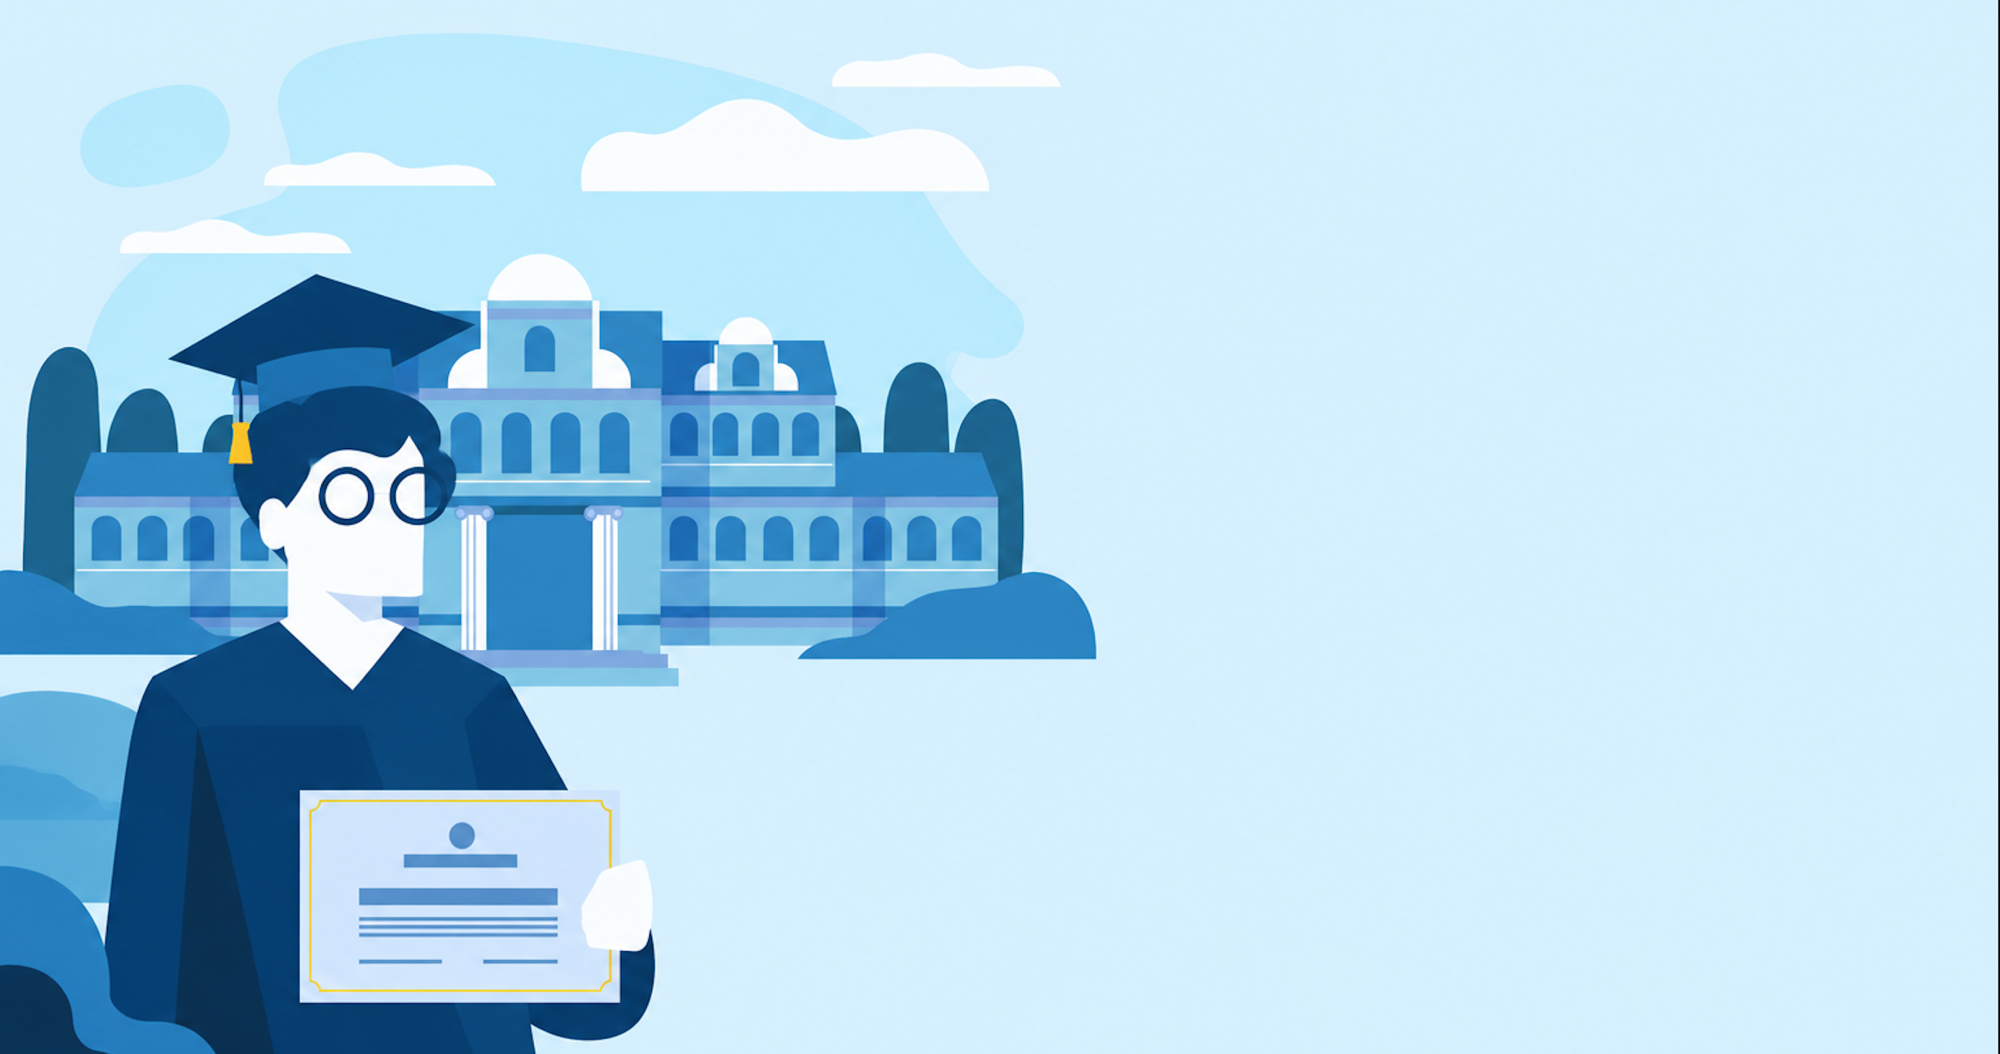
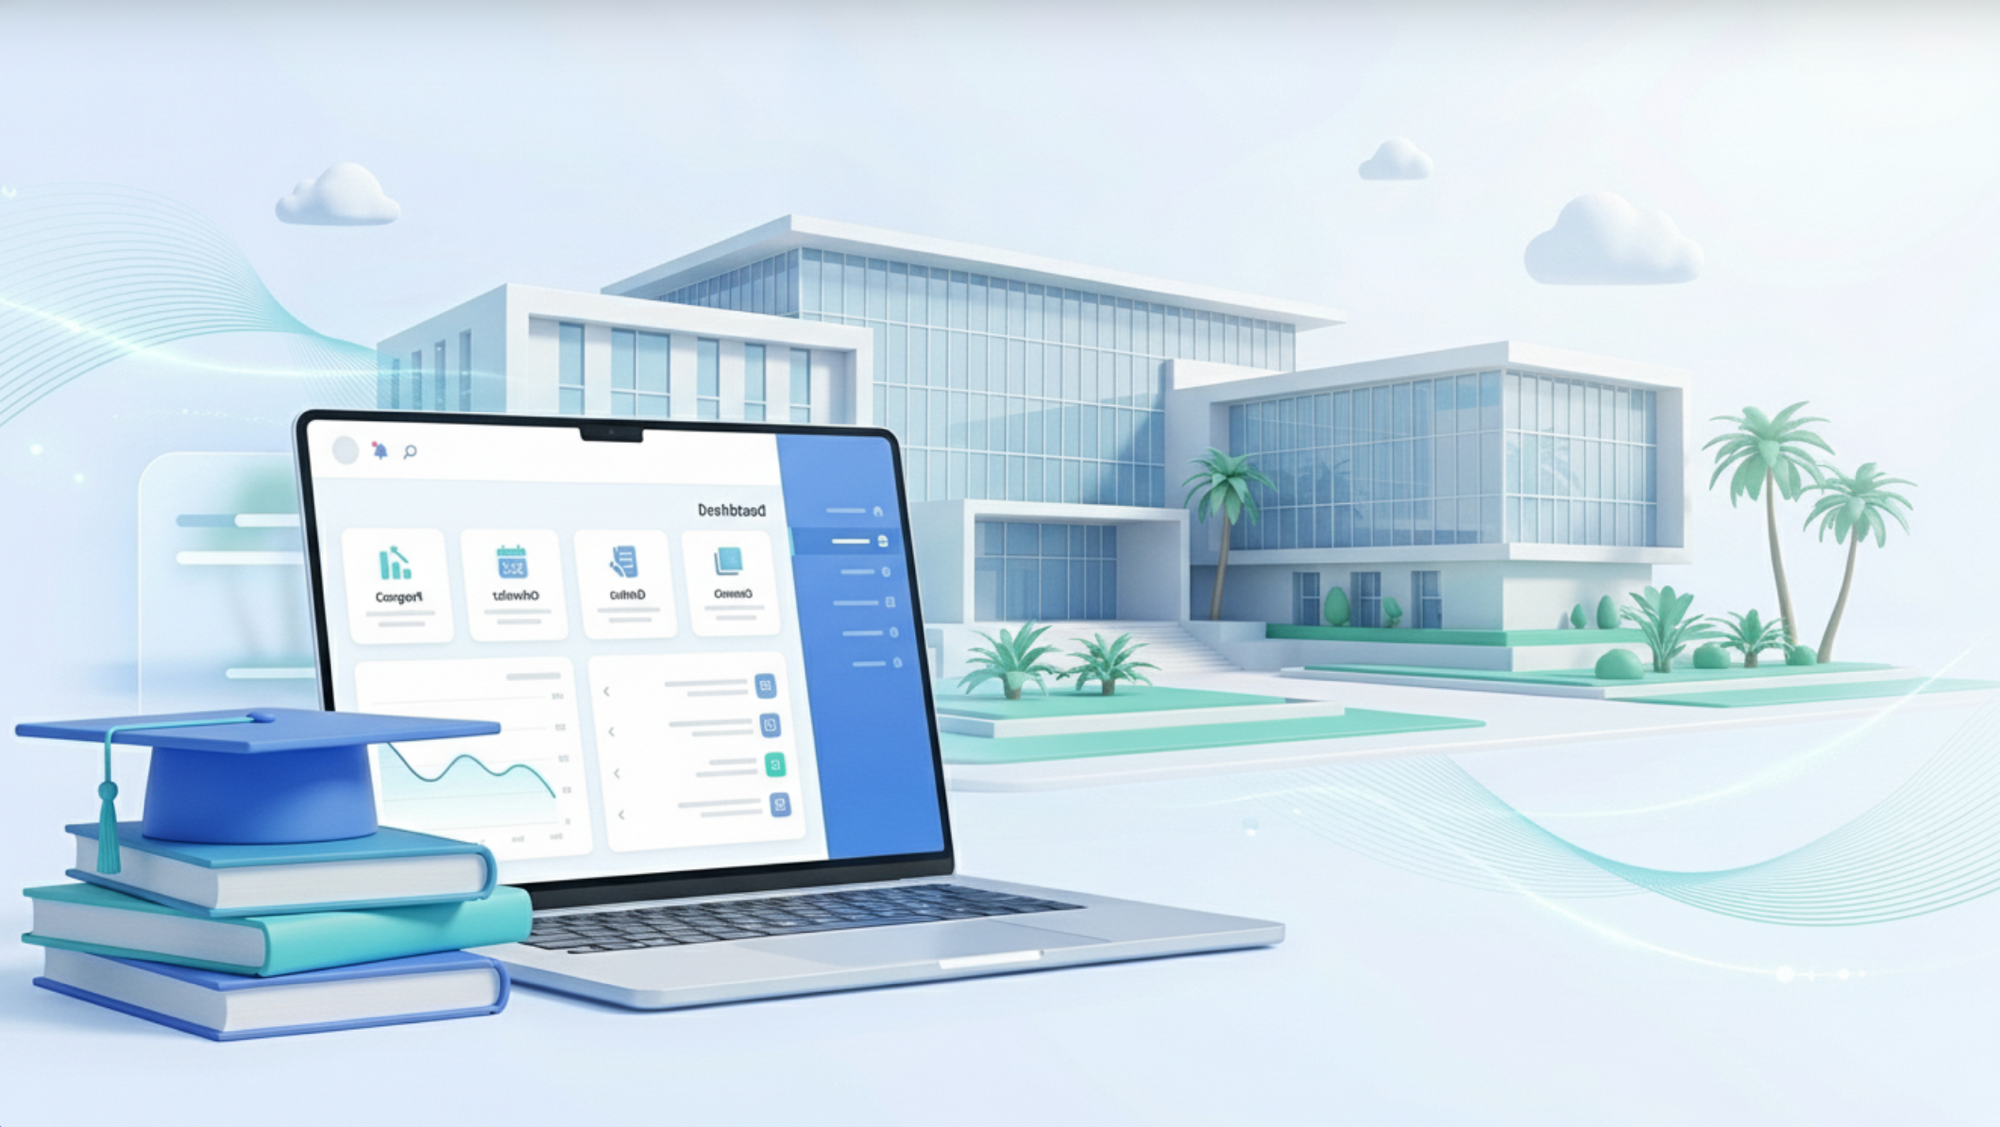
updated registeration page

diff --git a/resources/views/components/layout/app.blade.php b/resources/views/components/layout/app.blade.php
@@ -176,10 +176,12 @@
 
 <section id="home" data-spy class="relative overflow-hidden bg-[#d4effd]">
 
-    {{-- ===== Desktop (lg+): full-bleed illustration with the copy over the open right side ===== --}}
+    {{-- ===== Desktop (lg+): full-bleed illustration with the copy over the right side ===== --}}
     <div class="relative hidden lg:block">
-        <img src="{{ asset('images/hero-apply.png') }}" alt="" aria-hidden="true"
-             class="absolute inset-0 h-full w-full object-cover object-[left_bottom]">
+        <img src="{{ asset('images/hero-apply.png') }}?v={{ @filemtime(public_path('images/hero-apply.png')) }}" alt="" aria-hidden="true"
+             class="absolute inset-0 h-full w-full object-cover object-center">
+        {{-- subtle darkening for depth --}}
+        <div class="pointer-events-none absolute inset-0 bg-blue-950/20"></div>
         {{-- directional wash — illustration crisp on the left, text area clear on the right --}}
         <div class="pointer-events-none absolute inset-0 bg-gradient-to-l from-[#d4effd] via-[#d4effd]/55 to-transparent"></div>
 
@@ -204,14 +206,16 @@
         </div>
     </div>
 
-    {{-- ===== Mobile (<lg): faded illustration backdrop with the copy overlaid (text-shadow for legibility) ===== --}}
+    {{-- ===== Mobile (<lg): copy over the illustration ===== --}}
     <div class="relative overflow-hidden lg:hidden">
-        <img src="{{ asset('images/hero-apply.png') }}" alt="رسم خريج يحمل شهادته أمام مبنى الكلية"
-             class="absolute inset-0 h-full w-full object-cover object-center opacity-20">
-        {{-- soft top/bottom fade so the copy floats cleanly over the art --}}
-        <div class="pointer-events-none absolute inset-0 bg-gradient-to-b from-[#d4effd]/70 via-transparent to-[#d4effd]/80"></div>
+        <img src="{{ asset('images/hero-apply.png') }}?v={{ @filemtime(public_path('images/hero-apply.png')) }}" alt="رسم منصة الخدمات الأكاديمية للكلية"
+             class="absolute inset-0 h-full w-full object-cover object-center">
+        {{-- subtle darkening for depth --}}
+        <div class="pointer-events-none absolute inset-0 bg-blue-950/20"></div>
+        {{-- legibility wash — lighter at the top where the copy sits --}}
+        <div class="pointer-events-none absolute inset-0 bg-gradient-to-b from-[#d4effd]/90 via-[#d4effd]/30 to-[#d4effd]/55"></div>
 
-        <div class="relative px-6 pb-16 pt-14 text-center">
+        <div class="relative px-6 pb-44 pt-32 text-center">
             <h2 class="text-3xl font-extrabold leading-tight text-blue-900 [text-shadow:0_2px_12px_rgba(255,255,255,0.85),0_1px_2px_rgba(30,58,138,0.15)] sm:text-4xl">
                 كلية التقنية الإلكترونية طرابلس
             </h2>
@@ -229,6 +233,44 @@
 <main id="registration-form" class="max-w-7xl mx-auto px-6 py-16">
     {{ $slot }}
 </main>
+
+{{-- ============================ Footer ============================ --}}
+<footer class="bg-blue-950 text-center text-slate-300">
+    <div class="mx-auto max-w-7xl px-6 py-12">
+        <p class="text-sm text-slate-400">© جميع الحقوق محفوظة لكلية التقنية الإلكترونية {{ date('Y') }}</p>
+
+        <p class="mt-7 text-base font-bold text-slate-100">فريق التطوير</p>
+
+        @php
+            $devs = [
+                ['name' => 'محمود شنيب', 'url' => 'https://github.com/MahmoudShnnib'],
+                ['name' => 'محمد الزايدي', 'url' => 'https://github.com/mohamedzaydi782-alt'],
+                ['name' => 'عمر شنيب', 'url' => 'https://github.com/Omar-shennib'],
+            ];
+        @endphp
+        <div class="mt-4 flex flex-wrap items-center justify-center gap-x-5 gap-y-3 text-sm font-semibold">
+            @foreach($devs as $dev)
+                <a href="{{ $dev['url'] }}" target="_blank" rel="noopener noreferrer"
+                   class="inline-flex items-center gap-2 text-slate-200 transition hover:text-sky-400">
+                    <svg class="size-5" fill="currentColor" viewBox="0 0 24 24" aria-hidden="true">
+                        <path d="M12 .5C5.73.5.5 5.73.5 12c0 5.08 3.29 9.39 7.86 10.91.58.11.79-.25.79-.56 0-.27-.01-1.16-.02-2.1-3.2.7-3.88-1.37-3.88-1.37-.52-1.33-1.28-1.69-1.28-1.69-1.05-.72.08-.7.08-.7 1.16.08 1.77 1.19 1.77 1.19 1.03 1.77 2.7 1.26 3.36.96.1-.75.4-1.26.73-1.55-2.55-.29-5.23-1.28-5.23-5.7 0-1.26.45-2.29 1.19-3.1-.12-.29-.52-1.46.11-3.05 0 0 .97-.31 3.18 1.18a11 11 0 015.8 0c2.2-1.49 3.17-1.18 3.17-1.18.63 1.59.23 2.76.11 3.05.74.81 1.19 1.84 1.19 3.1 0 4.43-2.69 5.41-5.25 5.69.41.36.78 1.06.78 2.14 0 1.55-.01 2.8-.01 3.18 0 .31.21.68.8.56A10.52 10.52 0 0023.5 12C23.5 5.73 18.27.5 12 .5z"/>
+                    </svg>
+                    <span>{{ $dev['name'] }}</span>
+                </a>
+                @unless($loop->last)
+                    <span class="text-slate-600" aria-hidden="true">•</span>
+                @endunless
+            @endforeach
+        </div>
+
+        <div class="mt-8">
+            <span class="inline-flex items-center gap-2 rounded-full bg-white/5 px-5 py-2 text-sm text-slate-200 ring-1 ring-white/10">
+                <span class="font-bold text-slate-100">اشراف:</span>
+                أ. مصطفى قاباج
+            </span>
+        </div>
+    </div>
+</footer>
 
 {{-- Toast notifications --}}
 <div x-data
@@ -276,7 +318,7 @@
         x-transition:leave-end="opacity-0 translate-y-3"
         @click="window.scrollTo({ top: 0, behavior: 'smooth' })"
         aria-label="العودة للأعلى"
-        class="fixed bottom-6 start-6 z-50 flex size-12 items-center justify-center rounded-full bg-blue-800 text-white shadow-lg shadow-blue-900/30 transition hover:bg-blue-900">
+        class="fixed bottom-6 start-6 z-50 flex size-12 items-center justify-center rounded-full bg-white text-blue-800 ring-1 ring-blue-100 shadow-lg shadow-blue-900/20 transition hover:bg-blue-50">
     <svg class="size-6" fill="none" stroke="currentColor" stroke-width="2" viewBox="0 0 24 24">
         <path stroke-linecap="round" stroke-linejoin="round" d="M4.5 15.75l7.5-7.5 7.5 7.5" />
     </svg>

diff --git a/app/Providers/Filament/StudentPanelProvider.php b/app/Providers/Filament/StudentPanelProvider.php
@@ -29,6 +29,11 @@ class StudentPanelProvider extends PanelProvider
             ->path('portal')
             ->font('Noto Kufi Arabic', url: asset('css/noto-kufi-arabic.css'), provider: LocalFontProvider::class)
             ->viteTheme('resources/css/filament/student/theme.css')
+            ->spa(hasPrefetching: true)
+            ->spaUrlExceptions([
+                '*/portal/login',
+                '*/portal/login/*',
+            ])
             ->login(\App\Filament\Auth\Login::class)
             ->userMenuItems([
                 \Filament\Navigation\MenuItem::make()

diff --git a/app/Providers/Filament/AdminPanelProvider.php b/app/Providers/Filament/AdminPanelProvider.php
@@ -31,6 +31,11 @@ class AdminPanelProvider extends PanelProvider
             ->id('admin')
             ->path('admin')
             ->brandName('إدارة الدراسات العليا')
+            ->spa()
+            ->spaUrlExceptions([
+                '*/admin/login',
+                '*/admin/login/*',
+            ])
             ->login(\App\Filament\Auth\Login::class)
             ->userMenuItems([
                 \Filament\Navigation\MenuItem::make()
